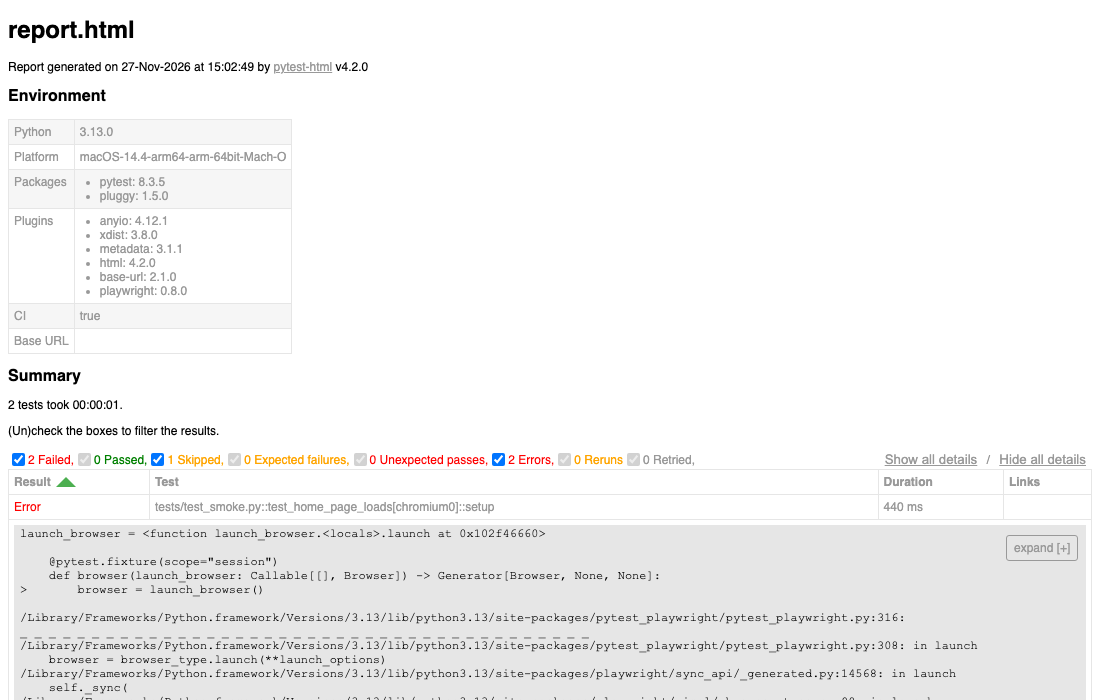
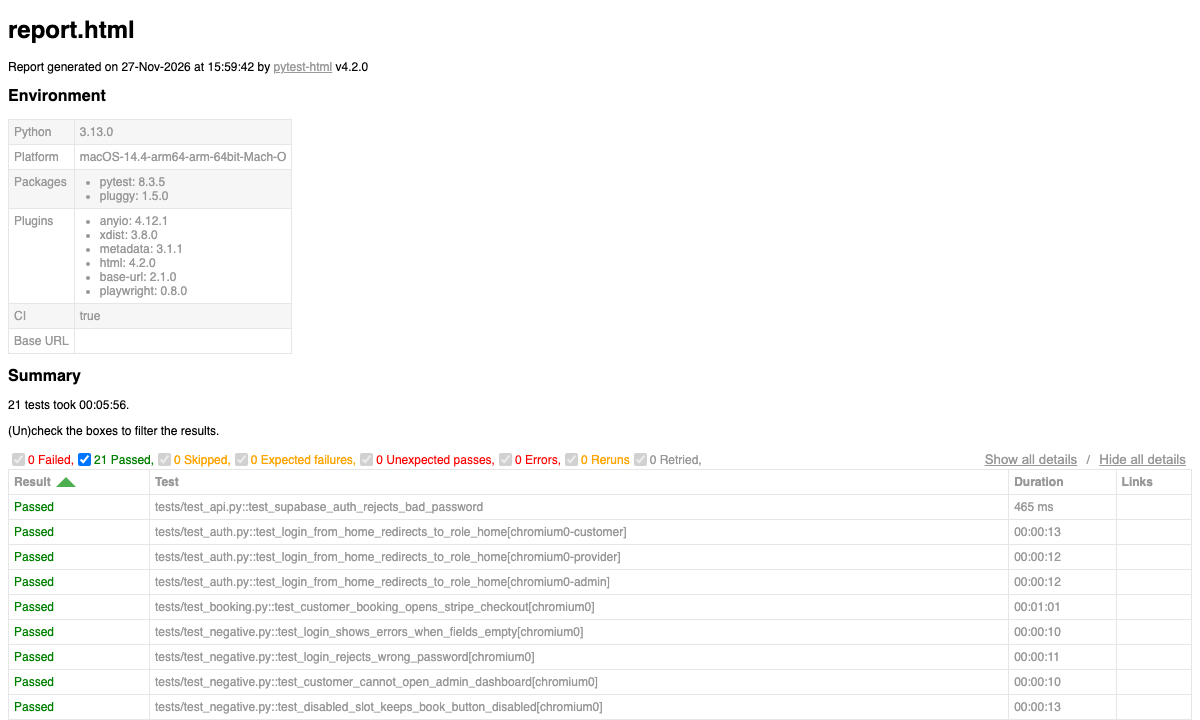
Move HTTP smoke checks out of API and refresh the green report screenshot.

Changed region(s): [[0.0, 0.18, 0.9891, 1.0], [0.0, 0.09, 0.34, 0.15], [0.0, 0.03, 0.1236, 0.06]]

diff --git a/tests/test_api.py b/tests/test_api.py
@@ -2,28 +2,6 @@ import os
 
 import pytest
 
-from config.settings import BASE_URL
-
-
-@pytest.mark.api
-def test_home_page_returns_200(playwright):
-    api = playwright.request.new_context(ignore_https_errors=True)
-    response = api.get(f"{BASE_URL}/")
-    assert response.status == 200
-    body = response.text()
-    assert "BookNest" in body
-    api.dispose()
-
-
-@pytest.mark.api
-def test_service_discovery_returns_200(playwright):
-    api = playwright.request.new_context(ignore_https_errors=True)
-    response = api.get(f"{BASE_URL}/service-discovery")
-    assert response.status == 200
-    body = response.text()
-    assert "BookNest" in body
-    api.dispose()
-
 
 @pytest.mark.api
 def test_supabase_auth_rejects_bad_password(playwright):
@@ -33,7 +11,6 @@ def test_supabase_auth_rejects_bad_password(playwright):
         pytest.skip("Set SUPABASE_URL and SUPABASE_ANON_KEY for this API test")
 
     api = playwright.request.new_context(
-        ignore_https_errors=True,
         extra_http_headers={
             "apikey": anon_key,
             "Content-Type": "application/json",

diff --git a/tests/test_smoke.py b/tests/test_smoke.py
@@ -1,4 +1,13 @@
+import os
+
+from config.settings import BASE_URL
 from pages.home_page import HomePage
+
+
+def _api(playwright):
+    # Opt-in only (e.g. corporate SSL intercept). Leave unset in CI.
+    ignore = os.getenv("IGNORE_HTTPS_ERRORS") == "1"
+    return playwright.request.new_context(ignore_https_errors=ignore)
 
 
 def test_home_page_loads(page):
@@ -8,3 +17,19 @@ def test_home_page_loads(page):
     assert "BookNest" in home.get_title()
     assert home.brand_link().is_visible()
     assert home.browse_services_cta().is_visible()
+
+
+def test_home_http_returns_200(playwright):
+    api = _api(playwright)
+    response = api.get(f"{BASE_URL}/")
+    assert response.status == 200
+    assert "BookNest" in response.text()
+    api.dispose()
+
+
+def test_service_discovery_http_returns_200(playwright):
+    api = _api(playwright)
+    response = api.get(f"{BASE_URL}/service-discovery")
+    assert response.status == 200
+    assert "BookNest" in response.text()
+    api.dispose()

diff --git a/README.md b/README.md
@@ -15,13 +15,13 @@ End-to-end and API checks for [BookNest](https://booknest.niraj.shop) — custom
 
 | Suite | What it checks |
 |--------|----------------|
-| Smoke | Home page loads |
+| Smoke | Home UI + HTTP 200 for `/` and `/service-discovery` |
 | Auth | Customer / provider / admin login → role home |
 | Booking (CI) | Discover → open slot → Stripe Checkout opens |
 | Booking (local) | Card fill → Pay → Paid (`pytest -m stripe_fill`) |
 | Negative | Empty login, wrong password, disabled slot, customer blocked from admin |
 | Negative (local) | Declined card (`4000…0002`) via `stripe_fill` |
-| API | Public page status/body, Supabase auth rejection |
+| API | Supabase auth rejects bad password |
 
 ## Layout
 
@@ -45,7 +45,7 @@ playwright install chromium
 cp .env.example .env
 ```
 
-Fill `.env` with app credentials. Optional for the auth API test: `SUPABASE_URL`, `SUPABASE_ANON_KEY`.
+Fill `.env` with app credentials plus `SUPABASE_URL` and `SUPABASE_ANON_KEY` for the API test.
 
 ## Run
 
@@ -63,7 +63,7 @@ On failure Playwright keeps screenshots and traces under `test-results/`.
 
 Runs `pytest -m "not stripe_fill"` on `ubuntu-24.04`. Full card payment is local-only because hosted Checkout often shows Link/wallet UI in CI without `#payment-numberInput`.
 
-Secrets: `BASE_URL`, role emails/passwords, optional `SUPABASE_URL` / `SUPABASE_ANON_KEY`.
+Secrets: `BASE_URL`, role emails/passwords, `SUPABASE_URL`, `SUPABASE_ANON_KEY`.
 
 Artifacts: pytest HTML report (always) and failure screenshots/traces.
 
